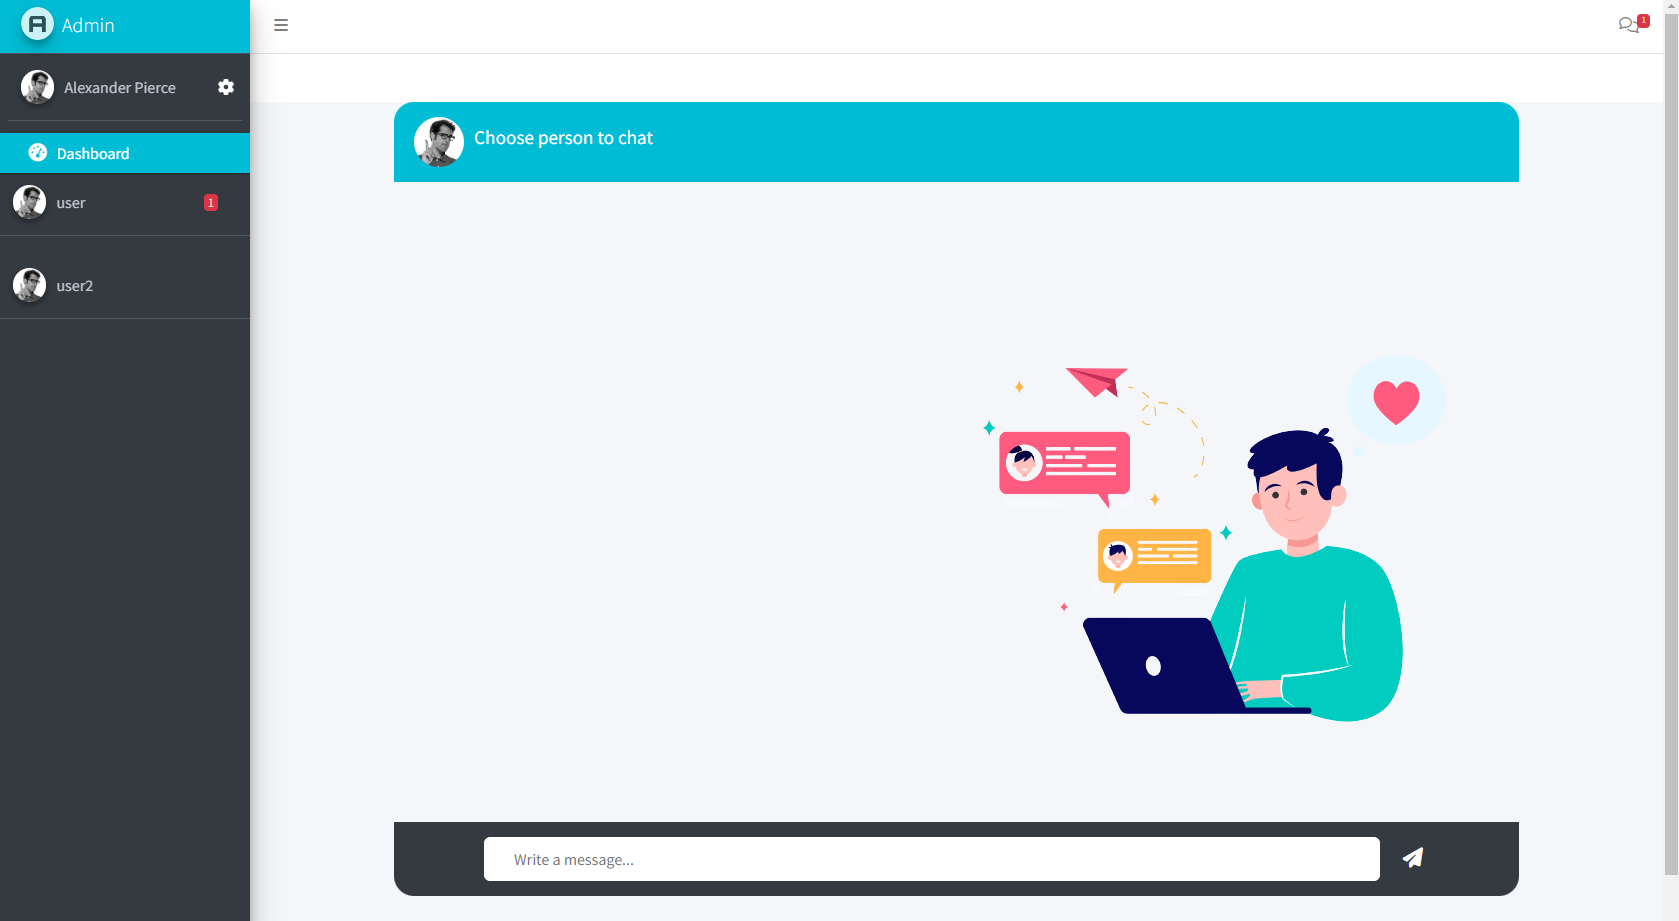
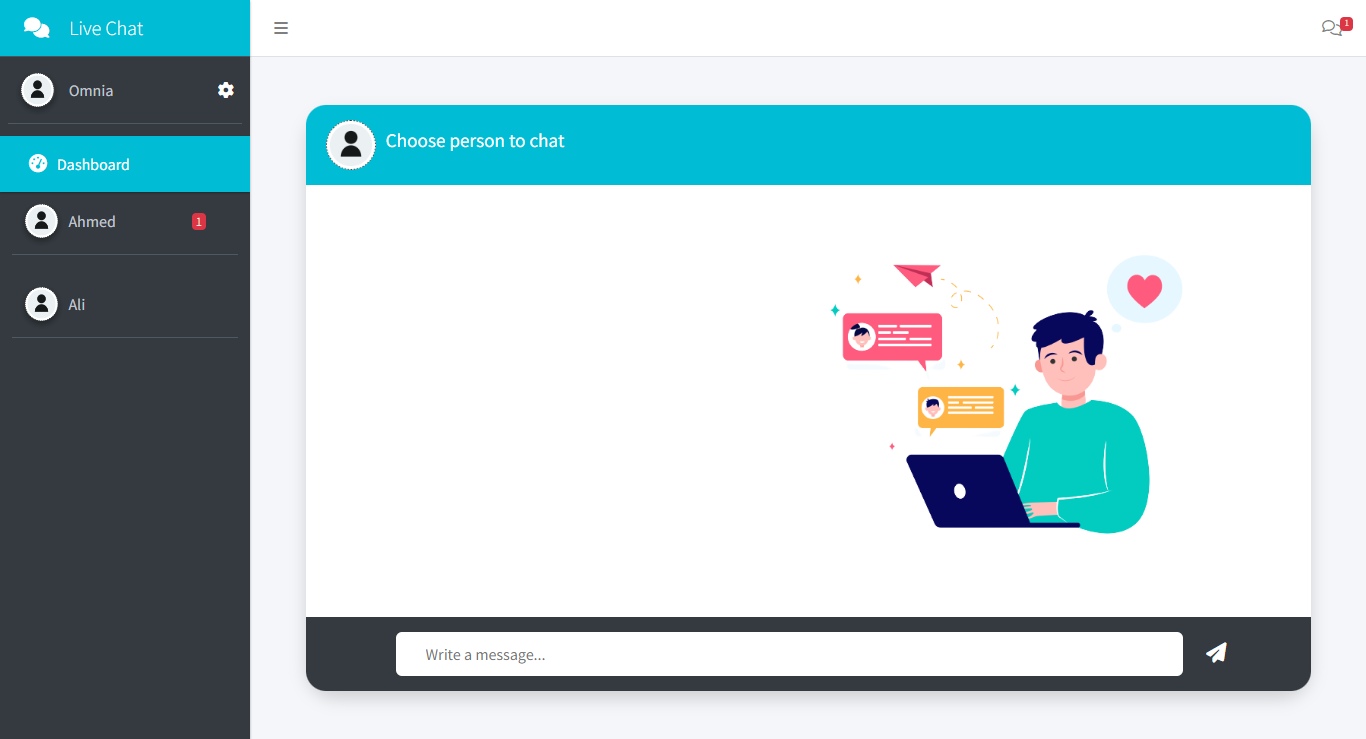
update chat package and README file

diff --git a/src/views/pages/admin/viewChat.blade.php b/src/views/pages/admin/viewChat.blade.php
@@ -2,10 +2,10 @@
 
 @section('content')
 
-<div class="content-wrapper">
+<div class="content-wrapper p-5">
   <div class="container">
 
-    <div class="chat mt-5 mb-0 bg-white shadow" style="border-radius: 30px">
+    <div class="chat mb-0 bg-white shadow" style="border-radius: 30px">
         <div class="chatbox__header bg-info">
             <div class="chatbox__image--header">
                 <img src="{{ asset('liveChat/tools/chat/logo/user.png') }}" alt="image">
@@ -15,7 +15,7 @@
                 {{-- <p class="chatbox__description--header">There are many variations of passages of Lorem Ipsum available</p> --}}
             </div>
         </div>
-    
+
         <div class="chatbox__messages" id="msgContainer">
             <div style="word-break: break-word;">
                 @php
@@ -28,7 +28,7 @@
                             {{ $item->msg }}
                         </div>
                     @endif
-                    
+
                     @if ($item->receiver == $user->id)
                         <div class="messages__item messages__item--operator">
                             {{ $item->msg }}
@@ -54,7 +54,7 @@
             </div>
         </form>
 
-    </div>      
+    </div>
 
   </div>
 </div>
@@ -63,7 +63,7 @@
     var sendBtn = document.getElementById('send');
 
     sendBtn.addEventListener('click', function(e) {
-        
+
         e.preventDefault();
         var container = document.querySelector('.chatbox__footer .content');
         container.innerHTML = '';
@@ -78,14 +78,14 @@
             if (xhr.status === 200) {
                 var response = xhr.responseText;
                 getData();
-                form.reset(); 
+                form.reset();
             } else {
                 console.log('Error: ' + xhr.status);
             }
         };
 
         xhr.send(formData);
-        
+
     });
 
     function getData(){
@@ -104,7 +104,7 @@
 
                 messages.forEach(function(message) {
                     var messageId = message.id;
-                    var url = "{{ route('image', ['id' => '__id__']) }}"; 
+                    var url = "{{ route('image', ['id' => '__id__']) }}";
                     var finalUrl = url.replace('__id__', messageId);
 
                     var messageColor = getCookie('defaultColor');
@@ -176,7 +176,7 @@
         getData();
     }, 1000);
 
-    // show image after choose it 
+    // show image after choose it
     function getImagePreview(event){
         // console.log(event.target.files[0])
         if(isImage(event.target.files[0].name)){
@@ -191,14 +191,14 @@
             var fileName = event.target.files[0].name;
             var container = document.querySelector('.chatbox__footer .content');
             container.innerHTML = '';
-            var html = `<span style="margin: 0px -60px 10px;">${fileName} 
+            var html = `<span style="margin: 0px -60px 10px;">${fileName}
                             <i class="fa-solid fa-close px-2" onclick="closeFile()"></i>
                         </span>`;
             container.innerHTML += html;
         }
     }
 
-    // remove image selected from input 
+    // remove image selected from input
     function closeFile(){
         document.querySelector('.chatbox__footer .content').innerHTML = '';
         document.querySelector('.chatbox__footer .file input').value = '';
@@ -228,5 +228,5 @@
         toastr.error('{{ session('error') }}');
     </script>
 @endif
-    
+
 @endsection

diff --git a/src/views/pages/admin/chat.blade.php b/src/views/pages/admin/chat.blade.php
@@ -1,7 +1,7 @@
 @extends('liveChat::layouts.layoutChat')
 
 @section('content')
-<div class="content-wrapper pt-5">
+<div class="content-wrapper p-5">
   <div class="container">
 
     <div class="chat mb-0 bg-white shadow" style="border-radius: 30px">
@@ -13,13 +13,13 @@
                 <h4 class="chatbox__heading--header">Choose person to chat</h4>
             </div>
         </div>
-    
+
         <div class="chatbox__messages overflow-hidden" id="msgContainer">
             <div>
               <div class="row">
                 <div class="col-6"></div>
                 <div class="col-6">
-                  <img src="{{ asset('/liveChat/tools/chat/images/chatPage.png') }}" class="img-fluid" alt="">
+                  <img src="{{ asset('/liveChat/tools/chat/images/chatPage.png') }}" class="img-fluid" style="max-width: 80%;" alt="">
                 </div>
               </div>
             </div>
@@ -32,7 +32,7 @@
             </div>
         </form>
 
-    </div>      
+    </div>
 
   </div>
 </div>

diff --git a/README.md b/README.md
@@ -27,7 +27,7 @@ Laravel's one-to-one chatting system package between admin and user, helps you a
 - Chat customization: chat color and font size.
   with a simple design.
 
-<!-- ...and much more you have to discover it yourself. -->
+...and much more you have to discover it yourself.
 
 ## Demo
 
@@ -43,7 +43,7 @@ composer require omnia/oalivechat
 ```
 ### 2- App Config
 
-- In the `config/app.php` file, add the following line to the 'providers' array: <br/>
+- In the `config/app.php` file, add the following line to the `providers` array: <br/>
 ```php
 "providers": { 
   ... 
@@ -57,7 +57,7 @@ composer require omnia/oalivechat
 ```php
 php artisan vendor:publish --tag=public --force 
 ```
-This will create a 'liveChat/tools' directory in the public directory. <br/>
+This will create a `liveChat/tools` directory in the public directory. <br/>
 - If you want to change the user chat color and position, you can do so in `public/liveChat/tools/chat/css/final.css`
 
 ### 4- Migration to database
@@ -73,7 +73,7 @@ php artisan migrate --path=vendor/omnia/oalivechat/src/database/migrations
 
 ### 5- Middleware for authentication admin chat
 
-- First, make sure to check the admin in the database and set its **role_for_messages** to 'admin', not 'user'.
+- **First**, make sure to check the admin in the database and set its **role_for_messages** to `admin`, not 'user'.
 - Create a middleware for checking the admin role: 
 ```php
 php artisan make:middleware CheckAdminRole 
@@ -106,7 +106,7 @@ protected $middlewareGroups = [
 ];
 ```
 
-- You should also have an AdminMessages middleware. Create it using: 
+- Create an AdminMessages middleware by this code: 
 ```php
 php artisan make:middleware AdminMessages
 ```
@@ -136,8 +136,8 @@ protected $middlewareAliases = [
 ]; 
 ```
 
-- Optionally, to show the admin's status in the user chat, make the following updates to the LoginController: <br>
-if you want this step: you should have laravel Authentication to get loginController file.
+- Optionally, to show the `admin's status` in the user chat, make the following updates to the `LoginController`: <br>
+if you want this step: you should have **laravel Authentication** to get loginController file.
 ```php
 use Illuminate\Http\Request; 
 use Illuminate\Support\Facades\Auth; 
